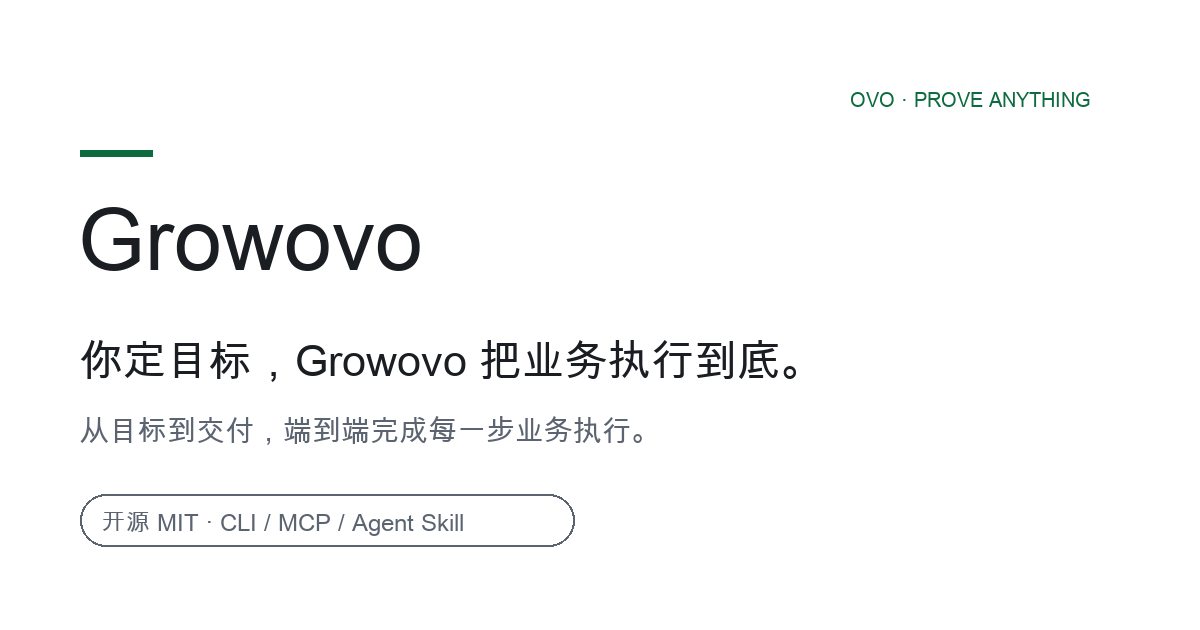
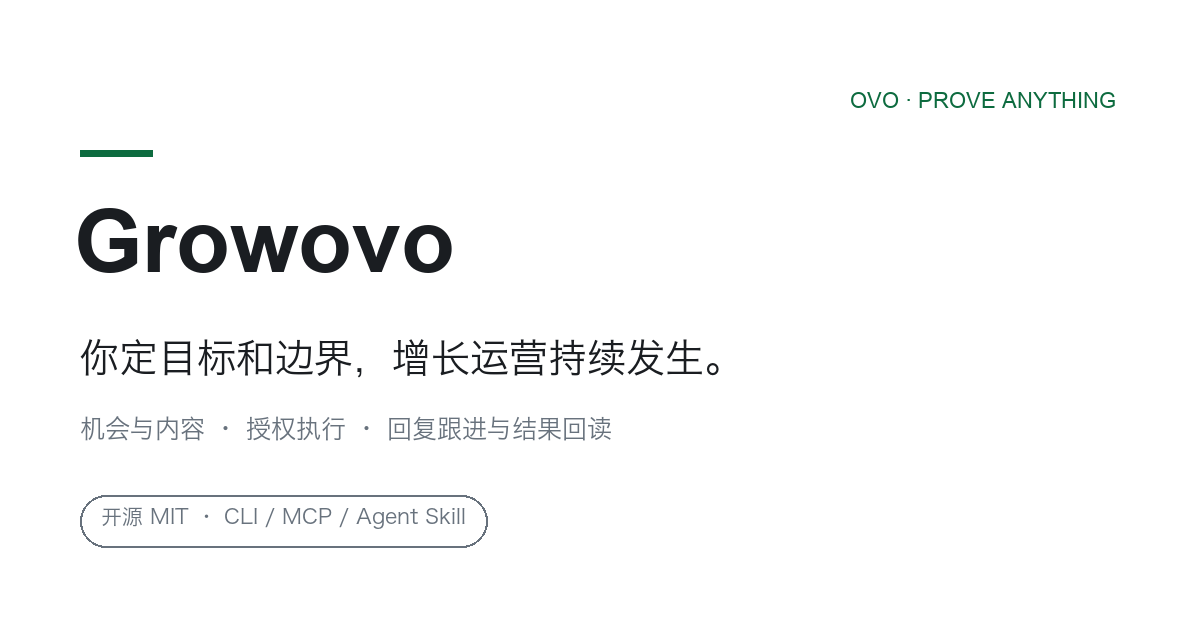
docs: align GTM with authorized growth operations

diff --git a/website/en.html b/website/en.html
@@ -3,26 +3,26 @@
 <head>
 <meta charset="utf-8">
 <meta name="viewport" content="width=device-width, initial-scale=1">
-<title>Growovo | Authorized execution across X, Discord and Email</title>
-<meta name="description" content="Give Growovo the product facts, audience and actions you authorize. It checks drafts, queues approved work and records receipts. An uncertain email send stops the batch for review. Track replies, activation and sales from their own records.">
+<title>Growovo | Authorized growth work that keeps moving</title>
+<meta name="description" content="Set the goal and guardrails. Growovo finds opportunities, prepares content, executes authorized actions, follows up replies, and records receipts and business outcomes separately.">
 <link rel="canonical" href="https://roy-tong.github.io/Growovo/en.html">
 <meta name="theme-color" content="#fafbfc">
 <meta name="growovo:auto-channels" content="x,email,discord">
 <!-- GSC/Bing verification meta goes on the line below this comment -->
 <meta property="og:type" content="website">
 <meta property="og:site_name" content="Growovo">
-<meta property="og:title" content="Growovo | Authorized execution across X, Discord and Email">
-<meta property="og:description" content="Give Growovo the product facts, audience and actions you authorize. It checks drafts, queues approved work and records receipts. An uncertain email send stops the batch for review. Track replies, activation and sales from their own records.">
+<meta property="og:title" content="Growovo | Authorized growth work that keeps moving">
+<meta property="og:description" content="Set the goal and guardrails. Execute authorized work, follow up replies, and record what happened.">
 <meta property="og:url" content="https://roy-tong.github.io/Growovo/en.html">
 <meta property="og:image" content="https://roy-tong.github.io/Growovo/assets/social-preview.png">
 <meta property="og:image:width" content="1200">
 <meta property="og:image:height" content="630">
-<meta property="og:image:alt" content="Growovo: agent-native GTM operator (open source, MIT)">
+<meta property="og:image:alt" content="Growovo: authorized growth work that keeps moving">
 <meta property="og:locale" content="en_US">
 <meta property="og:locale:alternate" content="zh_CN">
 <meta name="twitter:card" content="summary_large_image">
-<meta name="twitter:title" content="Growovo | Authorized execution across X, Discord and Email">
-<meta name="twitter:description" content="Give Growovo the product facts, audience and actions you authorize. It checks drafts, queues approved work and records receipts. An uncertain email send stops the batch for review. Track replies, activation and sales from their own records.">
+<meta name="twitter:title" content="Growovo | Authorized growth work that keeps moving">
+<meta name="twitter:description" content="Set the goal and guardrails. Execute authorized work, follow up replies, and record what happened.">
 <meta name="twitter:image" content="https://roy-tong.github.io/Growovo/assets/social-preview.png">
 <link rel="alternate" hreflang="en" href="https://roy-tong.github.io/Growovo/en.html">
 <link rel="alternate" hreflang="zh-CN" href="https://roy-tong.github.io/Growovo/">
@@ -34,7 +34,7 @@
   "name": "Growovo",
   "applicationCategory": "BusinessApplication",
   "operatingSystem": "macOS, Linux, Windows",
-  "description": "Give Growovo the product facts, audience and actions you authorize. It checks drafts, queues approved work and records receipts. An uncertain email send stops the batch for review. Track replies, activation and sales from their own records.",
+  "description": "Set the goal and guardrails. Growovo finds opportunities, prepares content, executes authorized actions, follows up replies, and records receipts and business outcomes separately.",
   "url": "https://roy-tong.github.io/Growovo/en.html",
   "codeRepository": "https://github.com/roy-tong/Growovo",
   "license": "https://opensource.org/license/mit",
@@ -47,12 +47,12 @@
   "@context": "https://schema.org",
   "@type": "FAQPage",
   "mainEntity": [
-    { "@type": "Question", "name": "Which platforms can Growovo fully automate?", "acceptedAnswer": { "@type": "Answer", "text": "X, Discord and Email have verified autonomous execution paths. Platform rules and compliance labels are risk notices only and never block business execution. GitHub, Reddit, Hacker News and LinkedIn still require explicit technical first-run confirmation. Manual channels such as Xiaohongshu and Zhihu get work orders only and are excluded from automated volume. Check the current state any time with mkt grow platforms." } },
-    { "@type": "Question", "name": "Will it get my account banned?", "acceptedAnswer": { "@type": "Answer", "text": "It only operates accounts you own or are explicitly authorized to run. Every send goes through authorization gates and a dry-run, so you can see what it intends to do before allowing it; no bypasses around platform rules are provided. It also does not promise platform reach." } },
-    { "@type": "Question", "name": "How is this different from a scheduling tool?", "acceptedAnswer": { "@type": "Answer", "text": "A scheduler publishes content you already wrote. Growovo starts from your product facts and one growth goal: it sets the strategy, builds the plan, executes, and records execution volume and daily readings in a verifiable ledger. Strategy and weekly reports are internal artifacts; the deliverable is a daily business result." } },
-    { "@type": "Question", "name": "How do I verify the results it reports?", "acceptedAnswer": { "@type": "Answer", "text": "Every committed action is in the ledger; daily follower and impression readings are screenshot-backed and labelled by evidence grade; mkt demo runs the full loop locally in about a second with zero network and zero accounts. The counter-examples are public too: the launch autopsy documents a real launch experiment run without the ledger — 0 new stars, and no reliable readings for followers or conversion." } },
-    { "@type": "Question", "name": "Does it cost money?", "acceptedAnswer": { "@type": "Answer", "text": "The tool itself is MIT open source with no paid tier. Local compute and model usage are billed by your own environment." } },
-    { "@type": "Question", "name": "What happens when something fails?", "acceptedAnswer": { "@type": "Answer", "text": "Failures stop the loop for human adjudication instead of pushing through; completion rates drive volume-change suggestions; supply gaps alert before they run out." } }
+    { "@type": "Question", "name": "Which actions run automatically?", "acceptedAnswer": { "@type": "Answer", "text": "Feedback search, metric observation, content generation and opportunity analysis can run automatically, along with routine replies inside existing authorization. New-customer outreach follows audience, channel and quota limits; high-impact statements, new permissions and irreversible commitments escalate." } },
+    { "@type": "Question", "name": "Does live by default mean everything publishes immediately?", "acceptedAnswer": { "@type": "Answer", "text": "No. Live by default only means an authorized write does not silently fall back to a preview. Account, action, audience, quota and risk policies still apply; unclear policies escalate. Use explicit --dry-run to preview at any time." } },
+    { "@type": "Question", "name": "How is this different from a scheduling tool?", "acceptedAnswer": { "@type": "Answer", "text": "A scheduler publishes content you already wrote. Growovo keeps goals, opportunities, assets, conversations, authorization, execution, receipts and recovery in one persistent runtime, then follows up replies while keeping sends, activation and sales separate." } },
+    { "@type": "Question", "name": "How do I verify the results?", "acceptedAnswer": { "@type": "Answer", "text": "Every action is recorded in the ledger; business readings are graded owner_declared, observed or independently_verified; unknown results never auto-resend. mkt demo reproduces authorization, offline receipts and blocked paths without network or accounts." } },
+    { "@type": "Question", "name": "Which channels are supported?", "acceptedAnswer": { "@type": "Answer", "text": "Channel readiness and account authorization are reported separately. Official APIs and SMTP are preferred; managed WebBridge/CDP requires a named owner-attested window and never claims platform permission. Check the platform automation matrix and feature status for current coverage." } },
+    { "@type": "Question", "name": "Does it cost money?", "acceptedAnswer": { "@type": "Answer", "text": "The tool is MIT open source. Local compute, model usage and third-party services are billed by your own environment." } }
   ]
 }
 </script>
@@ -81,27 +81,35 @@ footer{border-top:1px solid var(--line);margin-top:56px;padding-top:18px;color:v
 </head>
 <body>
 <main>
-<h1>Business execution across X, Discord and Email.</h1>
-<p class="tagline"><strong>You set the goal. Growovo carries out the work.</strong> From drafts and approved queues to receipts and reply follow-up, Growovo delivers the whole business workflow with reviewable evidence.</p>
+<h1>Set the goal and guardrails. Growovo keeps growth work moving.</h1>
+<p class="tagline">From opportunities and content to authorized execution, reply follow-up and outcome readback. Spend less time watching the workflow and more time making the decisions that matter.</p>
 <p><strong>Generate Anything. Prove What Matters.</strong> Keep generation, execution and business outcomes on separate evidence.</p>
-<p><a href="#demo">Start your first run →</a></p>
+<p><a href="#demo">Run the zero-account demo →</a></p>
 <span class="badge">MIT open source</span><span class="badge">CLI / MCP / Agent Skill</span><span class="badge">v0.21.0</span>
-<p><a href="#demo">One concrete task: one successful delivery, and three runs stopped by the gate →</a></p>
 <p><a href="./examples/controlled-run.en.html">Open the replayable controlled-run proof →</a></p>
-<p class="note"><strong>OVO / Prove Anything:</strong> an agent saying “done” still needs independent review. Prove Anything is the family-level result-proof protocol candidate; Verified Capability Factory (VCF) is a gated research candidate, not a Growovo dependency. Growovo works independently and keeps execution receipts, meaningful replies, activation and sales on separate evidence layers.</p>
 
-<h2>What it is</h2>
-<p>Give Growovo the product facts, audience and actions you authorize. It checks drafts, queues approved work and records receipts. An uncertain email send stops the batch for review. Track replies, activation and sales from their own records.</p>
-<p><strong>Automation starts with verified write paths and authorized accounts.</strong> X, Discord and Email have verified autonomous execution paths. Platform rules and compliance labels are risk notices only and never block business execution. GitHub, Reddit, Hacker News and LinkedIn still require explicit technical first-run confirmation; manual channels such as Xiaohongshu and Zhihu get work orders only. See the <a href="https://github.com/roy-tong/Growovo/blob/main/docs/platform-automation-matrix.md">platform automation matrix</a>.</p>
-
-<h2>Exactly three verifiable commitments</h2>
+<h2>Automate within the approved scope. Escalate beyond it.</h2>
+<p>Give Growovo the product facts, audience and scope you authorize. It finds opportunities, prepares content, executes authorized actions, follows up replies, and keeps receipts, activation and sales in separate records.</p>
 <table>
-<tr><th>Commitment</th><th>Meaning</th></tr>
-<tr><td>Execution volume</td><td>every committed action is in the ledger</td></tr>
-<tr><td>Honest readings</td><td>graded owner_declared / observed / independently_verified; manual entry never upgrades itself, and pairs bind subject, metric definition and time order</td></tr>
-<tr><td>Closed-loop responsibility</td><td>completion drives volume changes, supply gaps alert early, failures stop the loop for human adjudication</td></tr>
+<tr><th>Business action</th><th>Default execution</th></tr>
+<tr><td>Search feedback and observe metrics</td><td>Automatic</td></tr>
+<tr><td>Generate content and analyze opportunities</td><td>Automatic</td></tr>
+<tr><td>Routine replies within existing authorization</td><td>Automatic</td></tr>
+<tr><td>New-customer outreach</td><td>Authorized audience, channel and quota</td></tr>
+<tr><td>High-impact public statements</td><td>Risk review</td></tr>
+<tr><td>New accounts, permissions or channels</td><td>First-use authorization</td></tr>
+<tr><td>Money, contracts or irreversible commitments</td><td>Separate approval</td></tr>
 </table>
-<p>It does not promise platform reach, and does not dress unverified channels up as full automation.</p>
+<p>When the policy is unclear, Growovo escalates instead of defaulting to publish. Explicit <code>--dry-run</code> previews an action; it is not the only authorization mechanism. See the <a href="https://github.com/roy-tong/Growovo/blob/main/docs/platform-automation-matrix.md">platform automation matrix</a> for current channel readiness.</p>
+
+<h2>More than a scheduler</h2>
+<table>
+<tr><th>Capability</th><th>Business value</th></tr>
+<tr><td>Persistent business state</td><td>Goals, opportunities, assets, conversations, attempts, events and recovery stay consistent across CLI, MCP and scheduled jobs</td></tr>
+<tr><td>Follow-up after execution</td><td>GitHub Issue/Discussion and Gmail conversations continue in the same workflow</td></tr>
+<tr><td>Separate outcomes</td><td>Send receipts, meaningful replies, activation and sales remain distinct; unknown results never auto-resend</td></tr>
+<tr><td>Learn from failure</td><td>The public 73 tweets, 0 new stars autopsy remains a warning against using volume as growth proof</td></tr>
+</table>
 
 <h2 id="demo">One concrete task: one successful delivery, and three runs stopped by the gate</h2>
 <p>The input is a plan (demo-p0), one campaign and four sample actions. Three executable items form the approved queue; the placeholder sample stays outside that approval and is checked separately. Below is the real <code>mkt demo</code> output — zero network, zero accounts; the sandbox is rebuilt on every run and the whole thing is reproducible locally in about a second:</p>
@@ -138,18 +146,18 @@ python3 mkt.py grow platforms       # what phase one can fully automate</code></
 </table>
 
 <h2 id="faq">FAQ</h2>
-<h3>Which platforms can it fully automate?</h3>
-<p>X, Discord and Email have verified autonomous execution paths. Platform rules and compliance labels are risk notices only and never block business execution. GitHub, Reddit, Hacker News and LinkedIn still require explicit technical first-run confirmation. Manual channels such as Xiaohongshu and Zhihu get work orders only and never count toward automated volume. Check any time with <code>mkt grow platforms</code>.</p>
-<h3>Will it get my account banned?</h3>
-<p>It only operates accounts you own or are explicitly authorized to run. Sends go through authorization gates and a dry-run first; there are no bypasses around platform rules, and no promises about platform reach.</p>
+<h3>Which actions run automatically?</h3>
+<p>Feedback search, metric observation, content generation and opportunity analysis can run automatically, along with routine replies inside existing authorization. New-customer outreach follows audience, channel and quota limits; high-impact statements, new permissions and irreversible commitments escalate.</p>
+<h3>Does live by default mean everything publishes immediately?</h3>
+<p>No. Live by default only means an authorized write does not silently fall back to a preview. Account, action, audience, quota and risk policies still apply; unclear policies escalate. Use explicit <code>--dry-run</code> to preview at any time.</p>
 <h3>How is this different from a scheduling tool?</h3>
-<p>A scheduler publishes what you already wrote. Growovo starts from product facts and a growth goal — it sets strategy, builds the plan, executes, and records execution volume and daily readings in a verifiable ledger. The deliverable is a daily business result, not a queue of posts.</p>
+<p>A scheduler publishes content you already wrote. Growovo keeps goals, opportunities, assets, conversations, authorization, execution, receipts and recovery in one persistent runtime, then follows up replies while keeping sends, activation and sales separate.</p>
 <h3>How do I verify the results?</h3>
-<p>Every committed action is in the ledger; readings are graded owner_declared / observed / independently_verified, and manual entry never upgrades itself; <code>mkt demo</code> runs the whole loop locally in about a second. Counter-examples are public — the launch autopsy above documents a real launch experiment that produced 0 new stars and never touched the ledger.</p>
+<p>Every action is recorded in the ledger; business readings are graded <code>owner_declared / observed / independently_verified</code>; unknown results never auto-resend. <code>mkt demo</code> reproduces authorization, offline receipts and blocked paths without network or accounts.</p>
+<h3>Which channels are supported?</h3>
+<p>Channel readiness and account authorization are reported separately. Official APIs and SMTP are preferred; managed WebBridge/CDP requires a named owner-attested window and never claims platform permission. Check the <a href="https://github.com/roy-tong/Growovo/blob/main/docs/platform-automation-matrix.md">platform automation matrix</a> and <a href="https://github.com/roy-tong/Growovo/blob/main/docs/feature-status.md">feature status</a> for current coverage.</p>
 <h3>Does it cost money?</h3>
-<p>The tool is MIT open source with no paid tier. Local compute and model usage are billed by your own environment.</p>
-<h3>What happens when something fails?</h3>
-<p>Failures stop the loop for human adjudication; completion rates drive volume-change suggestions; supply gaps alert before they run out.</p>
+<p>The tool is MIT open source. Local compute, model usage and third-party services are billed by your own environment.</p>
 
 <h2>Links</h2>
 <ul>

diff --git a/website/index.html b/website/index.html
@@ -3,26 +3,26 @@
 <head>
 <meta charset="utf-8">
 <meta name="viewport" content="width=device-width, initial-scale=1">
-<title>Growovo | 授权跨渠道执行，回执可复核</title>
-<meta name="description" content="给 Growovo 产品事实、目标受众和允许执行的动作。它检查待发内容，把已授权的动作排入队列，并记录执行回执。邮件发送结果不明时会停下等人核对。回复、激活和成交分别看实际记录。">
+<title>Growovo | 目标与授权明确，增长运营持续发生</title>
+<meta name="description" content="你定目标和边界，Growovo 持续完成增长运营：发现机会、准备内容、执行授权动作、跟进回复，并分别记录回执与业务结果。">
 <link rel="canonical" href="https://roy-tong.github.io/Growovo/">
 <meta name="theme-color" content="#fafbfc">
 <meta name="growovo:auto-channels" content="x,email,discord">
 <!-- GSC/Bing 验证码插在这行下面：Search Console 与 Bing WMT 给的 <meta name=...> 标签原样粘贴即可 -->
 <meta property="og:type" content="website">
 <meta property="og:site_name" content="Growovo">
-<meta property="og:title" content="Growovo | 授权跨渠道执行，回执可复核">
-<meta property="og:description" content="给 Growovo 产品事实、目标受众和允许执行的动作。它检查待发内容，把已授权的动作排入队列，并记录执行回执。邮件发送结果不明时会停下等人核对。回复、激活和成交分别看实际记录。">
+<meta property="og:title" content="Growovo | 目标与授权明确，增长运营持续发生">
+<meta property="og:description" content="发现机会、准备内容、执行授权动作、跟进回复，并分别记录回执与业务结果。">
 <meta property="og:url" content="https://roy-tong.github.io/Growovo/">
 <meta property="og:image" content="https://roy-tong.github.io/Growovo/assets/social-preview.png">
 <meta property="og:image:width" content="1200">
 <meta property="og:image:height" content="630">
-<meta property="og:image:alt" content="Growovo：给增长目标的自动 GTM 操作员（开源 MIT）">
+<meta property="og:image:alt" content="Growovo：你定目标和边界，增长运营持续发生">
 <meta property="og:locale" content="zh_CN">
 <meta property="og:locale:alternate" content="en_US">
 <meta name="twitter:card" content="summary_large_image">
-<meta name="twitter:title" content="Growovo | 授权跨渠道执行，回执可复核">
-<meta name="twitter:description" content="给 Growovo 产品事实、目标受众和允许执行的动作。它检查待发内容，把已授权的动作排入队列，并记录执行回执。邮件发送结果不明时会停下等人核对。回复、激活和成交分别看实际记录。">
+<meta name="twitter:title" content="Growovo | 目标与授权明确，增长运营持续发生">
+<meta name="twitter:description" content="发现机会、准备内容、执行授权动作、跟进回复，并分别记录回执与业务结果。">
 <meta name="twitter:image" content="https://roy-tong.github.io/Growovo/assets/social-preview.png">
 <link rel="alternate" hreflang="zh-CN" href="https://roy-tong.github.io/Growovo/">
 <link rel="alternate" hreflang="en" href="https://roy-tong.github.io/Growovo/en.html">
@@ -34,7 +34,7 @@
   "name": "Growovo",
   "applicationCategory": "BusinessApplication",
   "operatingSystem": "macOS, Linux, Windows",
-  "description": "给 Growovo 产品事实、目标受众和允许执行的动作。它检查待发内容，把已授权的动作排入队列，并记录执行回执。邮件发送结果不明时会停下等人核对。回复、激活和成交分别看实际记录。",
+  "description": "你定目标和边界，Growovo 持续完成增长运营：发现机会、准备内容、执行授权动作、跟进回复，并分别记录回执与业务结果。",
   "url": "https://roy-tong.github.io/Growovo/",
   "codeRepository": "https://github.com/roy-tong/Growovo",
   "license": "https://opensource.org/license/mit",
@@ -47,12 +47,12 @@
   "@context": "https://schema.org",
   "@type": "FAQPage",
   "mainEntity": [
-    { "@type": "Question", "name": "Growovo 能全自动发哪些平台？", "acceptedAnswer": { "@type": "Answer", "text": "X、Discord、Email 具备已验证的自主执行路径；平台规则与合规口径只提示风险，不阻断业务。GitHub、Reddit、Hacker News、LinkedIn 仍需技术首跑确认；小红书、知乎等没有写原语的渠道只出作业单，不计入自动发布量。用 mkt grow platforms 随时查看当前状态。" } },
-    { "@type": "Question", "name": "会不会把我的账号搞封？", "acceptedAnswer": { "@type": "Answer", "text": "只用于你拥有、或被明确授权操作的账号。发送前有授权闸门和 dry-run，可以先看它打算做什么再放行；平台规则之外的路径不提供绕过。同时明确：不承诺平台算法给多少曝光。" } },
-    { "@type": "Question", "name": "和定时发帖工具有什么区别？", "acceptedAnswer": { "@type": "Answer", "text": "定时发帖工具执行你写好的内容；Growovo 从产品事实和增长目标出发，自己定策略、排计划、执行，并把执行了多少、读数是多少落成可核验的账本。策略和周报是中间产物，交付的是每天的业务结果。" } },
-    { "@type": "Question", "name": "它说的结果怎么核实？", "acceptedAnswer": { "@type": "Answer", "text": "账本里每条执行记录逐条可查；读数按 owner_declared / observed / independently_verified 分级，手工录入不自动升级；mkt demo 零网络零账号，本地一秒跑完完整闭环。反例也公开：发布尸检记录了一次没走账本的真实发布实验——0 个新 star，关注与转化没有可靠读数。" } },
-    { "@type": "Question", "name": "要花钱吗？", "acceptedAnswer": { "@type": "Answer", "text": "工具本身 MIT 开源，没有付费版。运行消耗的本机资源与模型调用按你自己的环境计。" } },
-    { "@type": "Question", "name": "出异常了怎么办？", "acceptedAnswer": { "@type": "Answer", "text": "异常停车待人工裁决，不会自行硬闯；完成率驱动调量建议；供给缺口提前报警，不会等用完了才说。" } }
+    { "@type": "Question", "name": "哪些动作会自动执行？", "acceptedAnswer": { "@type": "Answer", "text": "搜索反馈、观察指标、生成内容和分析机会可以自动执行；已授权范围内的常规回复也可自动执行。新客户外联按授权人群、渠道和配额运行；高影响力声明、新权限和不可逆承诺需要相应审核。" } },
+    { "@type": "Question", "name": "默认 Live 是不是所有动作都直接发？", "acceptedAnswer": { "@type": "Answer", "text": "不是。默认 Live 只表示已获授权的写操作不再自动退成预览。账号、动作、受众、配额和风险策略仍逐项检查；策略不明确时升级。显式 --dry-run 可随时预览。" } },
+    { "@type": "Question", "name": "和定时发帖工具有什么区别？", "acceptedAnswer": { "@type": "Answer", "text": "定时发帖工具执行你写好的内容。Growovo 用持久运行时维护目标、机会、资产、会话、授权、执行、回执和恢复状态，执行后继续同步回复，并把发送、激活和成交分别记录。" } },
+    { "@type": "Question", "name": "它说的结果怎么核实？", "acceptedAnswer": { "@type": "Answer", "text": "账本逐条记录执行；业务读数按 owner_declared、observed 和 independently_verified 分级；未知结果不自动重发。mkt demo 可零网络零账号复现授权、离线回执和拦截路径。" } },
+    { "@type": "Question", "name": "支持哪些渠道？", "acceptedAnswer": { "@type": "Answer", "text": "渠道能力按实际技术验收和账号授权分别公布。官方 API 与 SMTP 优先，受管 WebBridge/CDP 只在具名 owner-attested 窗口内使用，且不冒充平台许可。最新状态以平台自动执行矩阵和功能状态页为准。" } },
+    { "@type": "Question", "name": "要花钱吗？", "acceptedAnswer": { "@type": "Answer", "text": "工具本身 MIT 开源。运行消耗的本机资源、模型调用和第三方服务按你自己的环境计。" } }
   ]
 }
 </script>
@@ -80,27 +80,35 @@ footer{border-top:1px solid var(--line);margin-top:56px;padding-top:18px;color:v
 </head>
 <body>
 <main>
-<h1>Growovo：跨 X、Discord 与 Email 的业务执行</h1>
-<p class="tagline"><strong>你定目标，Growovo 把业务执行到底。</strong>从内容、授权队列到回执与回复跟进，端到端交付的业务执行保持可复核。</p>
+<h1>Growovo：你定目标和边界，增长运营持续发生</h1>
+<p class="tagline">从机会与内容，到授权执行、回复跟进和结果回读。让独立开发者和运营负责人少花时间盯流程，多花时间做取舍。</p>
 <p><strong>Generate Anything. Prove What Matters.</strong> 生成、执行与业务结果分别留证。</p>
-<p><a href="#demo">给我目标，开跑第一轮 →</a></p>
+<p><a href="#demo">先跑零账号 Demo →</a></p>
 <span class="badge">开源 MIT</span><span class="badge">CLI / MCP / Agent Skill</span><span class="badge">v0.21.0</span>
-<p><a href="#demo">看一个具体任务：一次成功交付，和三次被闸门拦下的执行 →</a></p>
 <p><a href="./examples/controlled-run.html">打开可重放受控执行证据页 →</a></p>
-<p class="note"><strong>OVO / Prove Anything：</strong>Agent 说“完成了”，仍需独立复核。Prove Anything 是族级结果证明协议候选；Verified Capability Factory（VCF）只是研究候选，不是 Growovo 当前依赖。Growovo 可独立使用，执行回执、有效回复、激活与成交继续分层，不能合并成“增长已证明”。</p>
 
-<h2>这是什么</h2>
-<p>给 Growovo 产品事实、目标受众和允许执行的动作。它检查待发内容，把已授权的动作排入队列，并记录执行回执。邮件发送结果不明时会停下等人核对。回复、激活和成交分别看实际记录。</p>
-<p><strong>全自动的前提是写通道已验证、账号已授权。</strong>X、Discord、Email 具备已验证的自主执行路径；平台规则与合规口径只提示风险，不阻断业务。GitHub、Reddit、Hacker News、LinkedIn 仍需技术首跑确认；小红书、知乎等没有写原语的渠道只出作业单，不计入自动发布量。</p>
-
-<h2>只承诺三件可核验的事</h2>
+<h2>授权范围内自动，范围之外升级</h2>
+<p>给 Growovo 产品事实、目标受众和授权范围。它发现机会、准备内容、执行已授权动作、跟进回复，并把执行回执、激活和成交分别留在记录里。</p>
 <table>
-<tr><th>承诺</th><th>含义</th></tr>
-<tr><td>执行量</td><td>账本 committed 逐条可查</td></tr>
-<tr><td>真实读数</td><td>按 owner_declared / observed / independently_verified 分级；手工录入不自动升级，配对绑定对象、口径与时序</td></tr>
-<tr><td>闭环责任</td><td>完成率驱动调量建议、供给缺口提前报警、异常停车待人工裁决</td></tr>
+<tr><th>业务动作</th><th>默认执行方式</th></tr>
+<tr><td>搜索反馈、观察指标</td><td>自动</td></tr>
+<tr><td>生成内容、分析机会</td><td>自动</td></tr>
+<tr><td>已授权范围内的常规回复</td><td>自动</td></tr>
+<tr><td>新客户外联</td><td>按授权人群、渠道和配额执行</td></tr>
+<tr><td>高影响力公开声明</td><td>风险升级审核</td></tr>
+<tr><td>新账号、新权限、新渠道</td><td>首次授权</td></tr>
+<tr><td>金钱、合同、不可逆承诺</td><td>单独审核</td></tr>
 </table>
-<p>不承诺平台算法给多少曝光，也不把未验证渠道包装成全自动。</p>
+<p>策略不明确时升级，不默认放行。显式 <code>--dry-run</code> 用于预览；它不是唯一的授权机制。当前渠道能力见<a href="https://github.com/roy-tong/Growovo/blob/main/docs/platform-automation-matrix.md">平台自动执行矩阵</a>。</p>
+
+<h2>不只是定时发布</h2>
+<table>
+<tr><th>能力</th><th>业务价值</th></tr>
+<tr><td>持久业务状态</td><td>目标、机会、资产、会话、尝试、事件和恢复状态跨 CLI、MCP 与定时任务保持一致</td></tr>
+<tr><td>执行之后继续跟进</td><td>GitHub Issue/Discussion 与 Gmail 双向会话进入同一工作流</td></tr>
+<tr><td>结果分层</td><td>发送回执、有效回复、激活和成交分别记录；未知结果不自动重发</td></tr>
+<tr><td>从失败中学习</td><td>公开保留 73 条推文、0 新增 Star 的复盘，不再用外发量证明增长</td></tr>
+</table>
 
 <h2 id="demo">一个具体任务：一次成功交付，和三次被闸门拦下的执行</h2>
 <p>输入是一个计划（demo-p0）、一个 campaign 和四个样例动作。三个可执行条目进入获批队列；含占位符的坏样本留在审批范围外，单独演示拒绝。下面是 <code>mkt demo</code> 的真实输出，零网络、零账号，每次运行重建沙盒，本地一秒内可复现：</p>
@@ -135,18 +143,18 @@ python3 mkt.py grow platforms       # 看第一期哪些平台能全自动</code
 </table>
 
 <h2 id="faq">常见问题</h2>
-<h3>能全自动发哪些平台？</h3>
-<p>X、Discord、Email 具备已验证的自主执行路径；平台规则与合规口径只提示风险，不阻断业务。GitHub、Reddit、Hacker News、LinkedIn 仍需技术首跑确认；小红书、知乎等没有写原语的渠道只出作业单，不计入自动发布量。用 <code>mkt grow platforms</code> 随时查看当前状态。</p>
-<h3>会不会把我的账号搞封？</h3>
-<p>只用于你拥有、或被明确授权操作的账号。发送前有授权闸门和 dry-run，可以先看它打算做什么再放行；平台规则之外的路径不提供绕过。同时明确：不承诺平台算法给多少曝光。</p>
+<h3>哪些动作会自动执行？</h3>
+<p>搜索反馈、观察指标、生成内容和分析机会可以自动执行；已授权范围内的常规回复也可自动执行。新客户外联按授权人群、渠道和配额运行；高影响力声明、新权限和不可逆承诺需要相应审核。</p>
+<h3>默认 Live 是不是所有动作都直接发？</h3>
+<p>不是。默认 Live 只表示已获授权的写操作不再自动退成预览。账号、动作、受众、配额和风险策略仍逐项检查；策略不明确时升级。显式 <code>--dry-run</code> 可随时预览。</p>
 <h3>和定时发帖工具有什么区别？</h3>
-<p>定时发帖工具执行你写好的内容；Growovo 从产品事实和增长目标出发，自己定策略、排计划、执行，并把执行了多少、读数是多少落成可核验的账本。策略和周报是中间产物，交付的是每天的业务结果。更细的对照见<a href="https://github.com/roy-tong/Growovo/blob/main/docs/compare.md">对比页</a>。</p>
+<p>定时发帖工具执行你写好的内容。Growovo 用持久运行时维护目标、机会、资产、会话、授权、执行、回执和恢复状态，执行后继续同步回复，并把发送、激活和成交分别记录。</p>
 <h3>它说的结果，我怎么核实？</h3>
-<p>三样都可查：账本里每条执行记录逐条可查；读数按 owner_declared / observed / independently_verified 分级，手工录入不自动升级；<code>mkt demo</code> 零网络零账号，本地一秒跑完完整闭环。反例也公开：上面的发布尸检是一次 0 新增 star 的真实发布实验，当晚绕过了账本——连失败都记不全，正是我们要修的问题。</p>
+<p>账本逐条记录执行；业务读数按 <code>owner_declared / observed / independently_verified</code> 分级；未知结果不自动重发。<code>mkt demo</code> 可零网络零账号复现授权、离线回执和拦截路径。</p>
+<h3>支持哪些渠道？</h3>
+<p>渠道能力按实际技术验收和账号授权分别公布。官方 API 与 SMTP 优先，受管 WebBridge/CDP 只在具名 owner-attested 窗口内使用，且不冒充平台许可。最新状态以<a href="https://github.com/roy-tong/Growovo/blob/main/docs/platform-automation-matrix.md">平台自动执行矩阵</a>和<a href="https://github.com/roy-tong/Growovo/blob/main/docs/feature-status.md">功能状态页</a>为准。</p>
 <h3>要花钱吗？</h3>
-<p>工具本身 MIT 开源，没有付费版。运行消耗的本机资源与模型调用按你自己的环境计。</p>
-<h3>出异常了怎么办？</h3>
-<p>异常停车待人工裁决，不会自行硬闯；完成率驱动调量建议；供给缺口提前报警，不会等用完了才说。</p>
+<p>工具本身 MIT 开源。运行消耗的本机资源、模型调用和第三方服务按你自己的环境计。</p>
 
 <h2>相关链接</h2>
 <ul>

diff --git a/tests/test_website_platform_claims.py b/tests/test_website_platform_claims.py
@@ -46,15 +46,15 @@ class WebsitePlatformClaimsTest(unittest.TestCase):
     def test_visible_copy_leads_with_growth_value_and_next_action(self):
         requirements = {
             "index.html": (
-                "你定目标，Growovo 把业务执行到底。",
-                "端到端交付的业务执行",
-                "给我目标，开跑第一轮",
+                "你定目标和边界，增长运营持续发生",
+                "授权范围内自动，范围之外升级",
+                "先跑零账号 Demo",
                 "docs/platform-automation-matrix.md",
             ),
             "en.html": (
-                "You set the goal. Growovo carries out the work.",
-                "delivers the whole business workflow",
-                "Start your first run",
+                "Set the goal and guardrails. Growovo keeps growth work moving.",
+                "Automate within the approved scope. Escalate beyond it.",
+                "Run the zero-account demo",
                 "docs/platform-automation-matrix.md",
             ),
         }

diff --git a/README.en.md b/README.en.md
@@ -2,19 +2,40 @@
   <img src="docs/assets/logo.png" width="400" alt="Growovo">
 </p>
 
-<p align="center"><strong>Give Growovo a business goal. It executes growth work and reads back outcomes.</strong><br>
-<em>告诉 Growovo 你的业务目标，让它执行增长运营并回读结果</em></p>
+<p align="center"><strong>Set the goal and guardrails. Growovo keeps growth work moving.</strong><br>
+<em>你定目标和边界，Growovo 持续完成增长运营</em></p>
 
 <p align="center"><a href="README.md">简体中文</a> · <strong>English</strong></p>
 
-Give Growovo the product facts, audience and actions you authorize. It checks drafts, queues approved work and records receipts. An uncertain email send stops the batch for review. Track replies, activation and sales from their own records.
+Give Growovo the product facts, audience and scope you authorize. It finds opportunities, prepares content, executes authorized actions, follows up replies, and keeps receipts, activation and sales in separate records. You decide whom to serve, what it may do, and when to continue or stop.
 
 ```bash
-git clone https://github.com/roy-tong/Growovo.git && cd Growovo
-python3 mkt.py demo    # no network or accounts: approval, offline receipt, three blocked actions; writes ./data/demo
+pipx install growovo
+mkt demo    # no network or accounts: authorization, offline receipt, three blocked actions; writes ./data/demo
 ```
 
-[Open the controlled-run example and task template](https://roy-tong.github.io/Growovo/examples/controlled-run.en.html) to see what the run does and does not establish. No dependency installation or account setup is needed.
+[Open the controlled-run example and task template](https://roy-tong.github.io/Growovo/examples/controlled-run.en.html). No real account setup is needed first.
+
+## Automate within the approved scope. Escalate beyond it.
+
+| Business action | Default execution |
+| --- | --- |
+| Search feedback and observe metrics | Automatic |
+| Generate content and analyze opportunities | Automatic |
+| Routine replies within existing authorization | Automatic |
+| New-customer outreach | Authorized audience, channel and quota |
+| High-impact public statements | Risk review |
+| New accounts, permissions or channels | First-use authorization |
+| Money, contracts or irreversible commitments | Separate approval |
+
+When the policy is unclear, Growovo escalates instead of defaulting to publish. Explicit `--dry-run` previews an action; it is not the only authorization mechanism.
+
+## More than a scheduler
+
+- **Persistent business state**: goals, opportunities, assets, conversations, attempts, events and recovery stay consistent across CLI, MCP and scheduled jobs.
+- **Follow-up after execution**: GitHub Issue/Discussion and Gmail conversations continue in the same workflow.
+- **Separate outcomes**: send receipts, meaningful replies, activation and sales remain distinct; unknown results never auto-resend.
+- **Learn from failure**: the public [73 tweets, 0 new stars autopsy](docs/launch-autopsy-20261105.md) remains a warning against using volume as growth proof.
 
 **AI Growth Service:** `mkt growth` compiles business goals into an action DAG. A SQLite transactional runtime keeps services, conversations, capabilities, attempts, events and recovery state consistent across CLI, MCP and scheduled jobs. GitHub Issue/Discussion and Gmail two-way conversations cover authorized ingestion, incremental sync, reply readback and recovery; a long-running worker continues synchronization and heartbeat beyond chat sessions. See [Growth Service](docs/growth-service.md) and the [goal contract example](examples/growth-goal.json).
 

diff --git a/README.md b/README.md
@@ -2,19 +2,40 @@
   <img src="docs/assets/logo.png" width="400" alt="Growovo">
 </p>
 
-<p align="center"><strong>告诉 Growovo 你的业务目标，让它执行增长运营并回读结果</strong><br>
-<em>Official API / SMTP / managed CDP execution with receipts and separate business outcomes</em></p>
+<p align="center"><strong>你定目标和边界，Growovo 持续完成增长运营</strong><br>
+<em>Authorized execution, persistent conversations, receipts and business outcomes in one growth runtime</em></p>
 
 <p align="center"><strong>简体中文</strong> · <a href="README.en.md">English</a></p>
 
-给 Growovo 产品事实、目标受众和允许执行的动作。它检查待发内容，把已授权的动作排入队列，并记录执行回执。邮件发送结果不明时会停下等人核对。回复、激活和成交分别看实际记录。
+给 Growovo 产品事实、目标受众和授权范围。它发现机会、准备内容、执行已授权动作、跟进回复，并把执行回执、激活和成交分别留在记录里。你决定服务谁、允许做什么，以及何时继续或停止。
 
 ```bash
-git clone https://github.com/roy-tong/Growovo.git && cd Growovo
-python3 mkt.py demo    # 零网络零账号：人审、离线回执、三次拦截和结果卡；写入 ./data/demo
+pipx install growovo
+mkt demo    # 零网络零账号：授权、离线回执、三次拦截和结果卡；写入 ./data/demo
 ```
 
-[打开受控执行示例与任务模板](https://roy-tong.github.io/Growovo/examples/controlled-run.html)，先看它能证明什么、不能证明什么。无需安装依赖或配置账号。
+[打开受控执行示例与任务模板](https://roy-tong.github.io/Growovo/examples/controlled-run.html)。无需先配置真实账号。
+
+## 授权范围内自动，范围之外升级
+
+| 业务动作 | 默认执行方式 |
+| --- | --- |
+| 搜索反馈、观察指标 | 自动 |
+| 生成内容、分析机会 | 自动 |
+| 已授权范围内的常规回复 | 自动 |
+| 新客户外联 | 按授权人群、渠道和配额执行 |
+| 高影响力公开声明 | 风险升级审核 |
+| 新账号、新权限、新渠道 | 首次授权 |
+| 金钱、合同、不可逆承诺 | 单独审核 |
+
+策略不明确时升级，不默认放行。显式 `--dry-run` 用于预览；它不是唯一的授权机制。
+
+## 不只是定时发布
+
+- **持久业务状态**：目标、机会、资产、会话、尝试、事件和恢复状态跨 CLI、MCP 与定时任务保持一致。
+- **执行之后继续跟进**：GitHub Issue/Discussion 与 Gmail 双向会话进入同一工作流。
+- **结果分层**：发送回执、有效回复、激活和成交分别记录；未知结果不自动重发。
+- **从失败中学习**：公开保留[73 条推文、0 新增 Star 的发布复盘](docs/launch-autopsy-20261105.md)，不再用外发量证明增长。
 
 **AI Growth Service：** `mkt growth` 把业务目标编译成动作 DAG，用 SQLite 事务持久管理服务、会话、能力、尝试、事件和恢复状态，CLI/MCP/定时器共用同一编号。GitHub Issue/Discussion 与 Gmail 双向会话支持授权入站、增量同步、回复回读和故障恢复；长期 Worker 负责关闭聊天后的同步与心跳。见[增长服务说明](docs/growth-service.md)与[目标合同样例](examples/growth-goal.json)。
 
